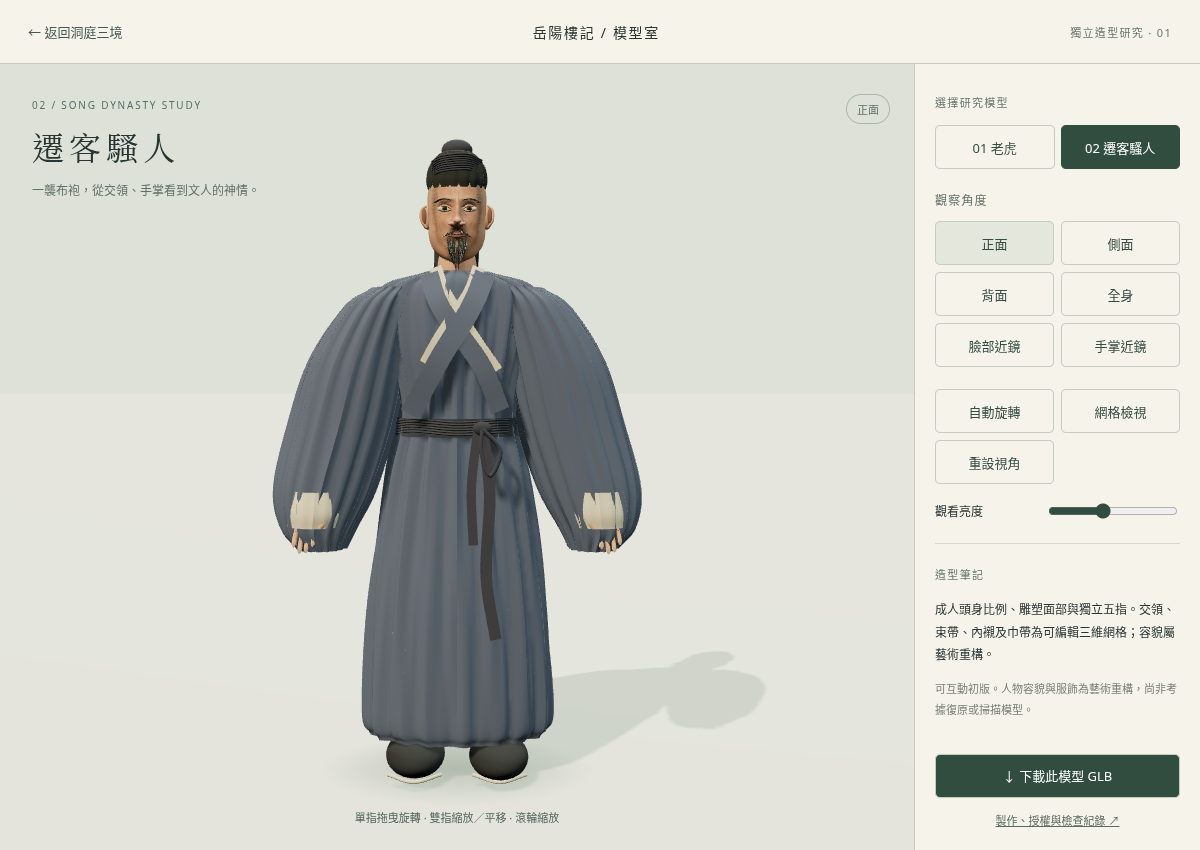
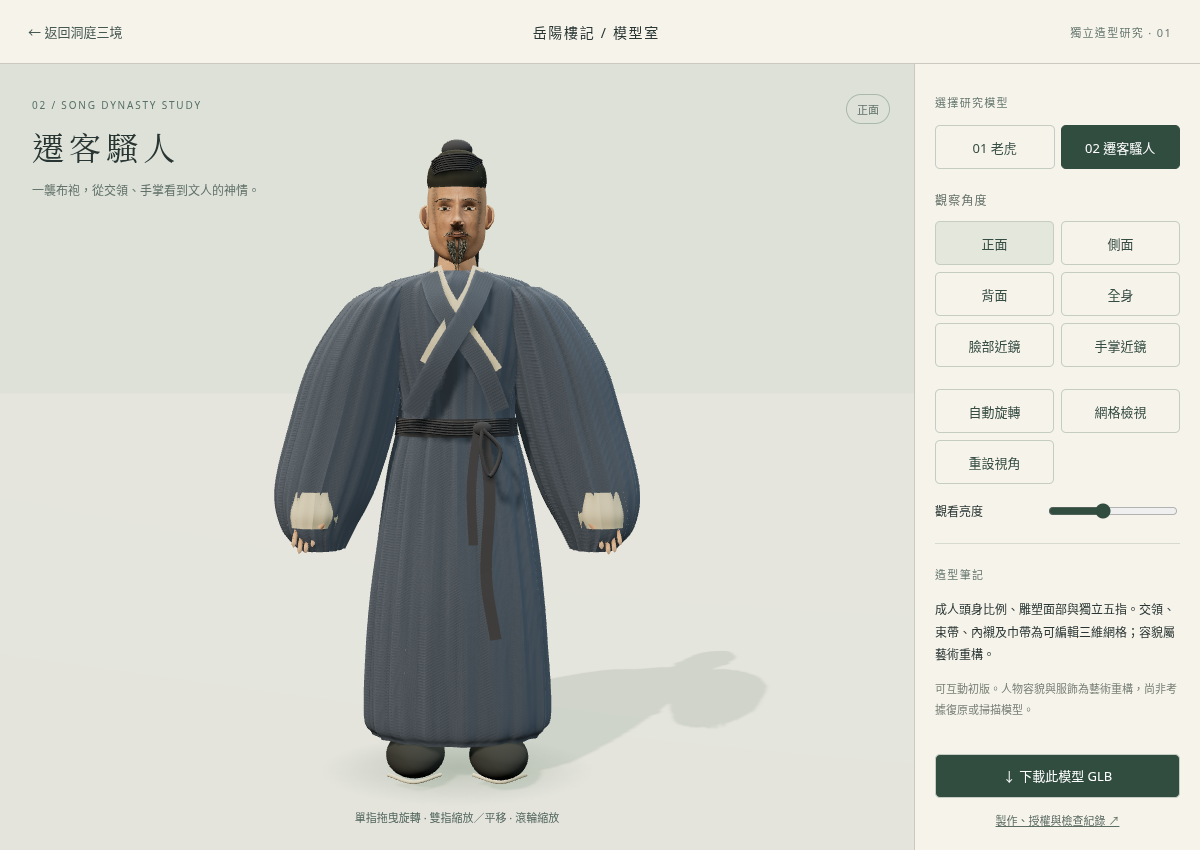
Expose scholar palms and retain final WebGL inspection evidence

diff --git a/model-study.js b/model-study.js
@@ -16,7 +16,7 @@ const ground=new T.Mesh(new T.PlaneGeometry(200,200),new T.MeshStandardMaterial(
 // Feathered contact patch supplements soft shadow-map penumbra; never a model billboard.
 const c=document.createElement('canvas');c.width=c.height=128;const ctx=c.getContext('2d'),grad=ctx.createRadialGradient(64,64,2,64,64,64);grad.addColorStop(0,'rgba(29,40,27,.28)');grad.addColorStop(1,'rgba(29,40,27,0)');ctx.fillStyle=grad;ctx.fillRect(0,0,128,128);const shadow=new T.Mesh(new T.PlaneGeometry(1,1),new T.MeshBasicMaterial({map:new T.CanvasTexture(c),transparent:true,depthWrite:false}));shadow.rotation.x=-Math.PI/2;shadow.position.y=-.008;scene.add(shadow);
 const models={},builders={tiger:buildTiger,scholar:buildScholar};let key='tiger',current=null,busy=false,wire=false,view='three',frame=0;
-const data={tiger:{title:'林間虎影',num:'01 / PANTHERA TIGRIS',desc:'肩背、足掌與斑紋，環繞觀察一隻虎。',notes:'連續體表、獨立眼瞼與立體鼻口、觸鬚及足趾。毛皮色彩以三維座標取樣；正臉色彩柔化過渡至側面。',target:[0,.73,-.15],distance:4.6,close:[0,1.12,1.18],hands:[.27,.13,.62]},scholar:{title:'遷客騷人',num:'02 / SONG DYNASTY STUDY',desc:'一襲布袍，從交領、手掌看到文人的神情。',notes:'成人頭身比例、雕塑面部與獨立五指。交領、束帶、內襯及巾帶為可編輯三維網格；容貌屬藝術重構。',target:[0,.91,0],distance:3.7,close:[0,1.61,.045],hands:[.415,.73,.10]}};
+const data={tiger:{title:'林間虎影',num:'01 / PANTHERA TIGRIS',desc:'肩背、足掌與斑紋，環繞觀察一隻虎。',notes:'連續體表、獨立眼瞼與立體鼻口、觸鬚及足趾。毛皮色彩以三維座標取樣；正臉色彩柔化過渡至側面。',target:[0,.73,-.15],distance:4.6,close:[0,1.12,1.18],hands:[.27,.13,.62]},scholar:{title:'遷客騷人',num:'02 / SONG DYNASTY STUDY',desc:'一襲布袍，從交領、手掌看到文人的神情。',notes:'成人頭身比例、雕塑面部與獨立五指。交領、束帶、內襯及巾帶為可編輯三維網格；容貌屬藝術重構。',target:[0,.91,0],distance:3.7,close:[0,1.61,.045],hands:[.415,.73,.205]}};
 function notify(s){status.textContent=s;}
 function setWire(){if(!current)return;current.traverse(o=>{if(o.isMesh)for(const m of Array.isArray(o.material)?o.material:[o.material])m.wireframe=wire;});}
 function setView(name){if(!current)return;view=name;const d=data[key];controls.target.fromArray(d.target);controls.minDistance=.32;controls.maxDistance=8;let dist=d.distance,a=.58,h=.19;

diff --git a/sculpted-models.js b/sculpted-models.js
@@ -113,9 +113,9 @@ export async function buildScholar(){
  // Sleeves hang from shoulders, down toward wrist; broad bottom hangs below hand.
  for(const s of [-1,1]){
  ringSurface(g,[[.65,.065,.078,s*.39,.035],[.71,.105,.10,s*.40,.025],[.82,.142,.114,s*.38,.012],[1.00,.15,.12,s*.33,0],[1.19,.138,.114,s*.28,0],[1.34,.10,.10,s*.22,0],[1.395,.063,.074,s*.175,0]],cloth,'垂墜寬袖',.003,80);
- ringSurface(g,[[.718,.084,.095,s*.405,.04],[.76,.091,.10,s*.40,.04],[.82,.082,.091,s*.395,.04]],lining,'袖口內襯',.002,64);
+ ringSurface(g,[[.718,.055,.055,s*.405,.04],[.76,.06,.06,s*.40,.04],[.82,.055,.055,s*.395,.04]],lining,'袖口內襯',.002,64);
  // Palm with thenar mound, knuckles, five separately articulated fingers.
- const hand=new T.Group();hand.position.set(s*.415,.805,.095);hand.rotation.z=s*.10;g.add(hand);hand.name='五指手掌';
+ const hand=new T.Group();hand.position.set(s*.415,.805,.205);hand.rotation.z=s*.10;g.add(hand);hand.name='五指手掌';
  ell(hand,[0,-.038,0],[.035,.057,.019],skin,'掌心');ell(hand,[-s*.022,-.04,.009],[.016,.031,.014],skin,'拇指球');
  for(let i=0;i<4;i++){const x=(i-1.5)*.0175,L=[.067,.083,.079,.060][i],top=-.071;const pts=[[x,top,0],[x+s*.002,top-L*.40,.007],[x+s*.004,top-L*.78,.018],[x+s*.003,top-L,.029]];tube(hand,pts,.0071-i*.0003,skin,'指節_'+i,18,8);ell(hand,[x,top+.002,0],[.009,.012,.016],skin,'掌指關節');ell(hand,[x+s*.003,top-L+.004,.034],[.0046,.009,.0013],material(0xbd9d88,.52),'指甲');for(const f of [.42,.75])tube(hand,[[x-.005,top-L*f,.015],[x,top-L*f-.001,.017],[x+.005,top-L*f,.015]],.00065,lip,'指節褶線',8,4);}
  tube(hand,[[-s*.025,-.025,.006],[-s*.042,-.043,.018],[-s*.048,-.064,.028],[-s*.038,-.082,.032]],.009,skin,'拇指',20,10);
